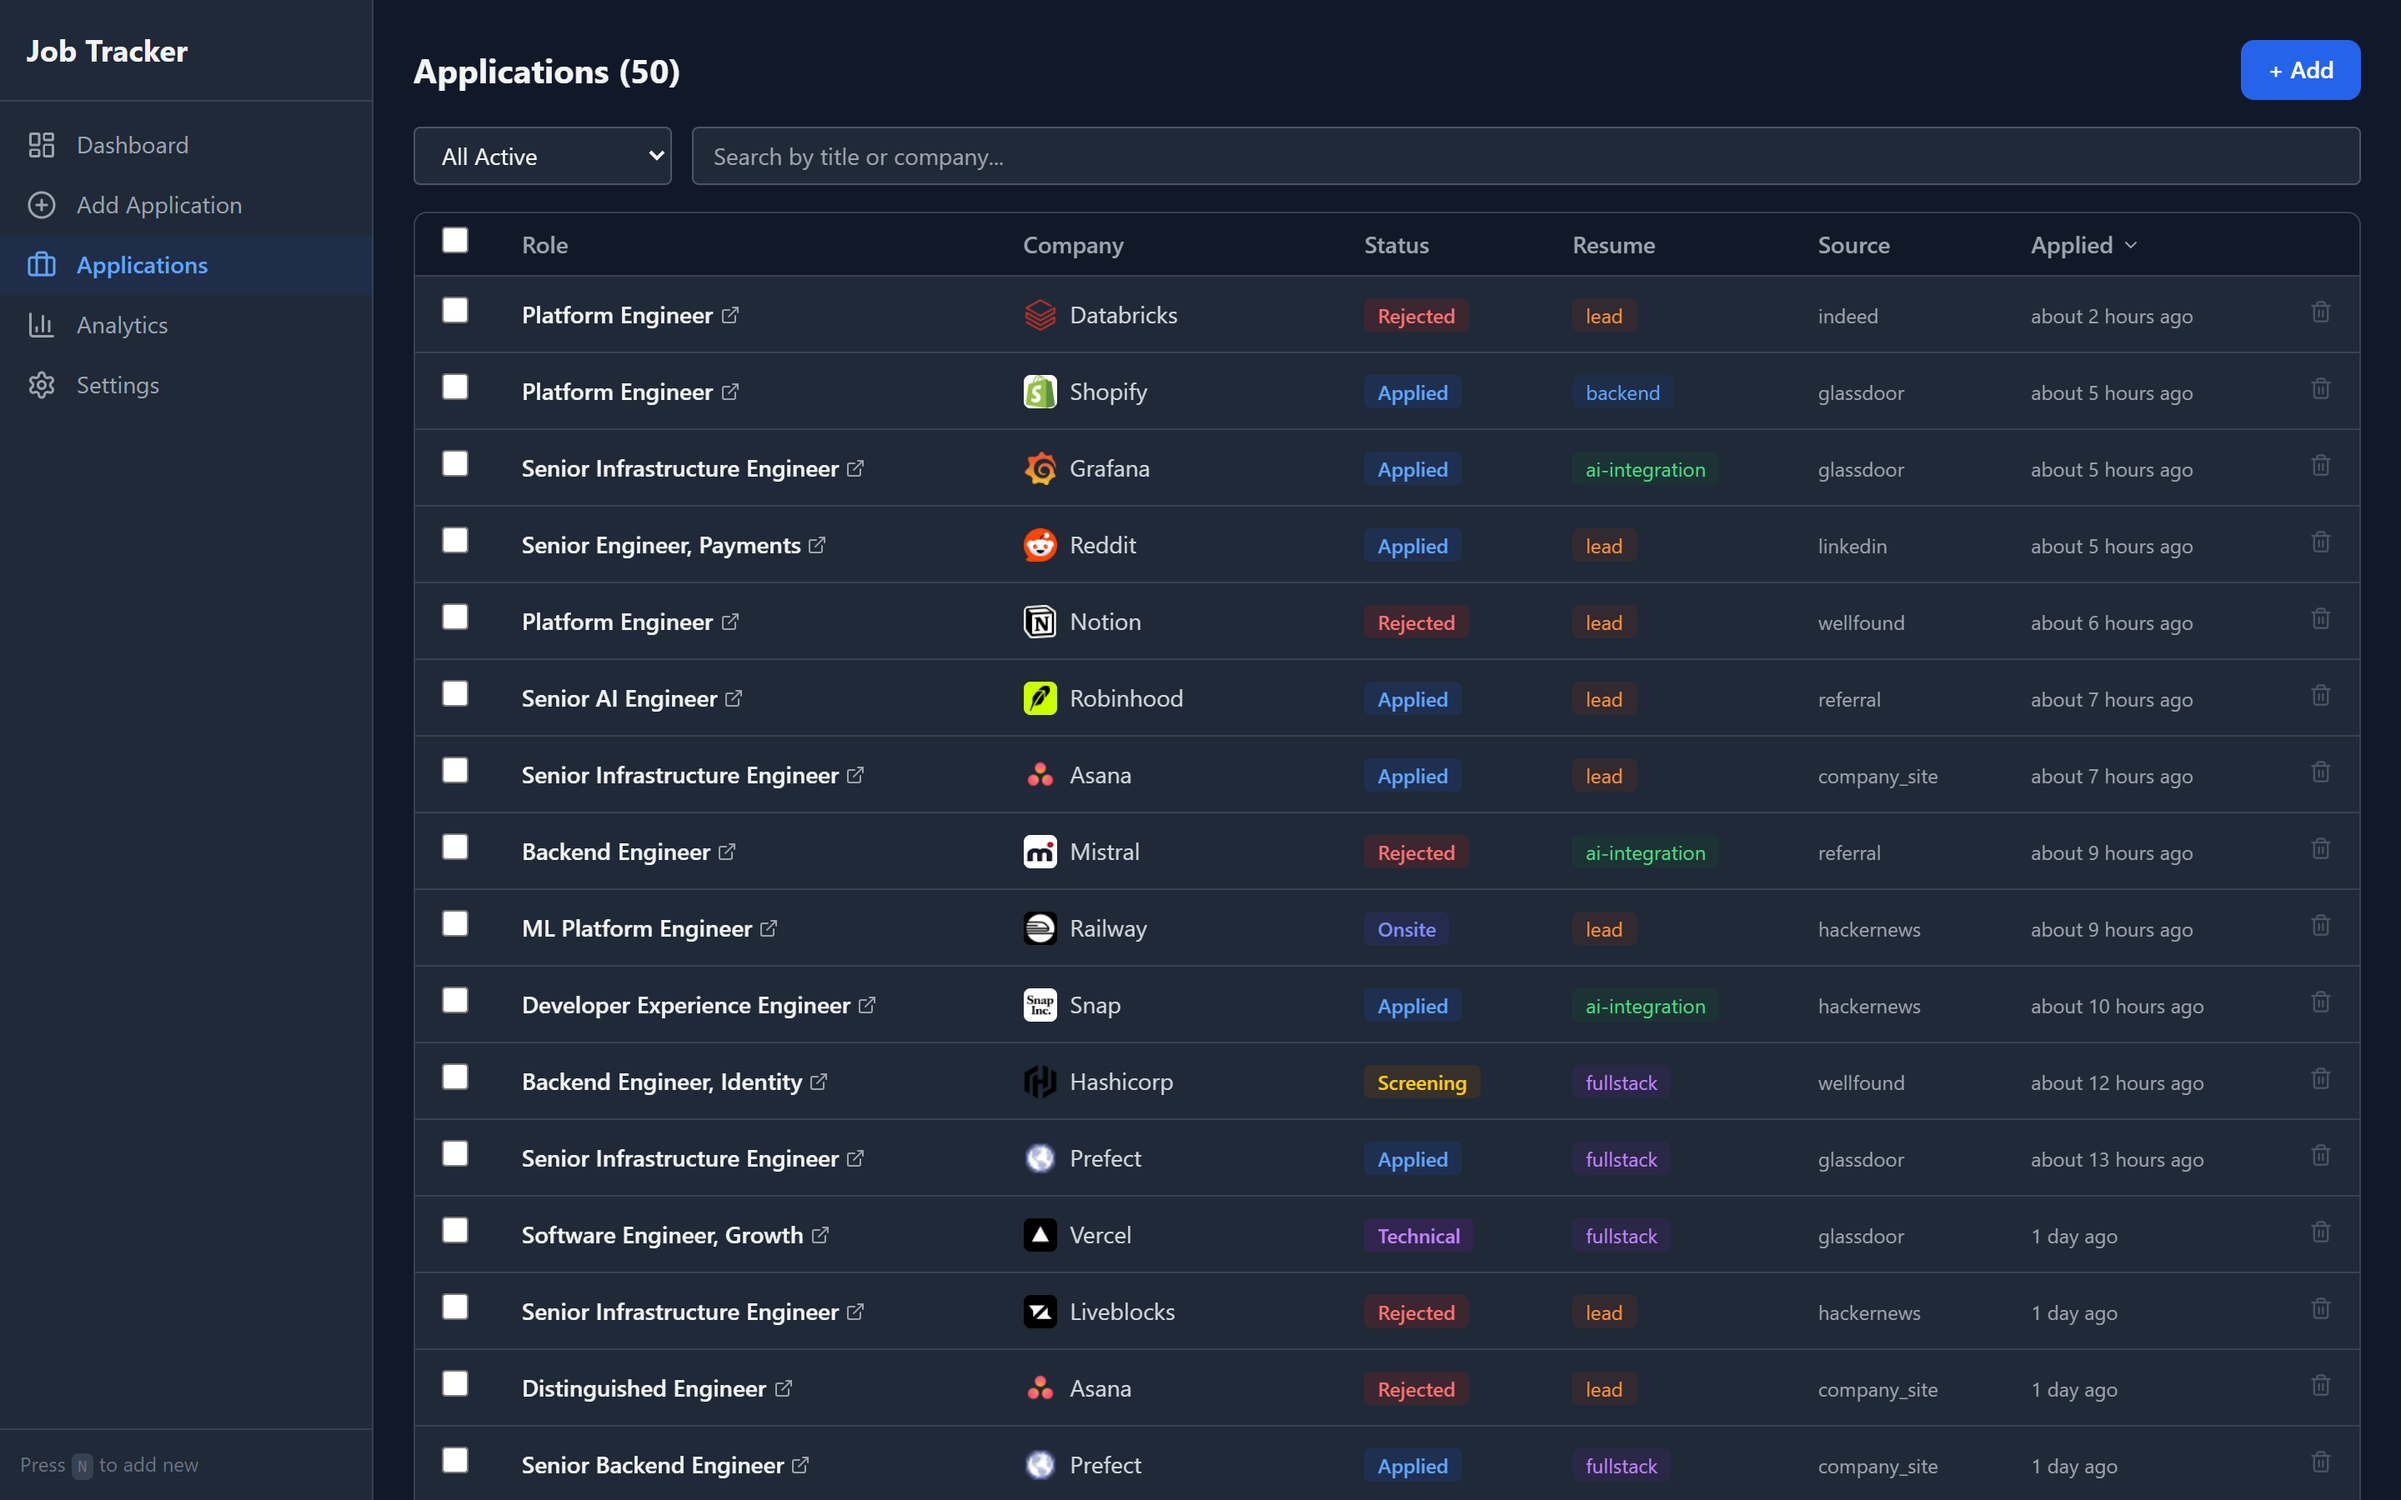
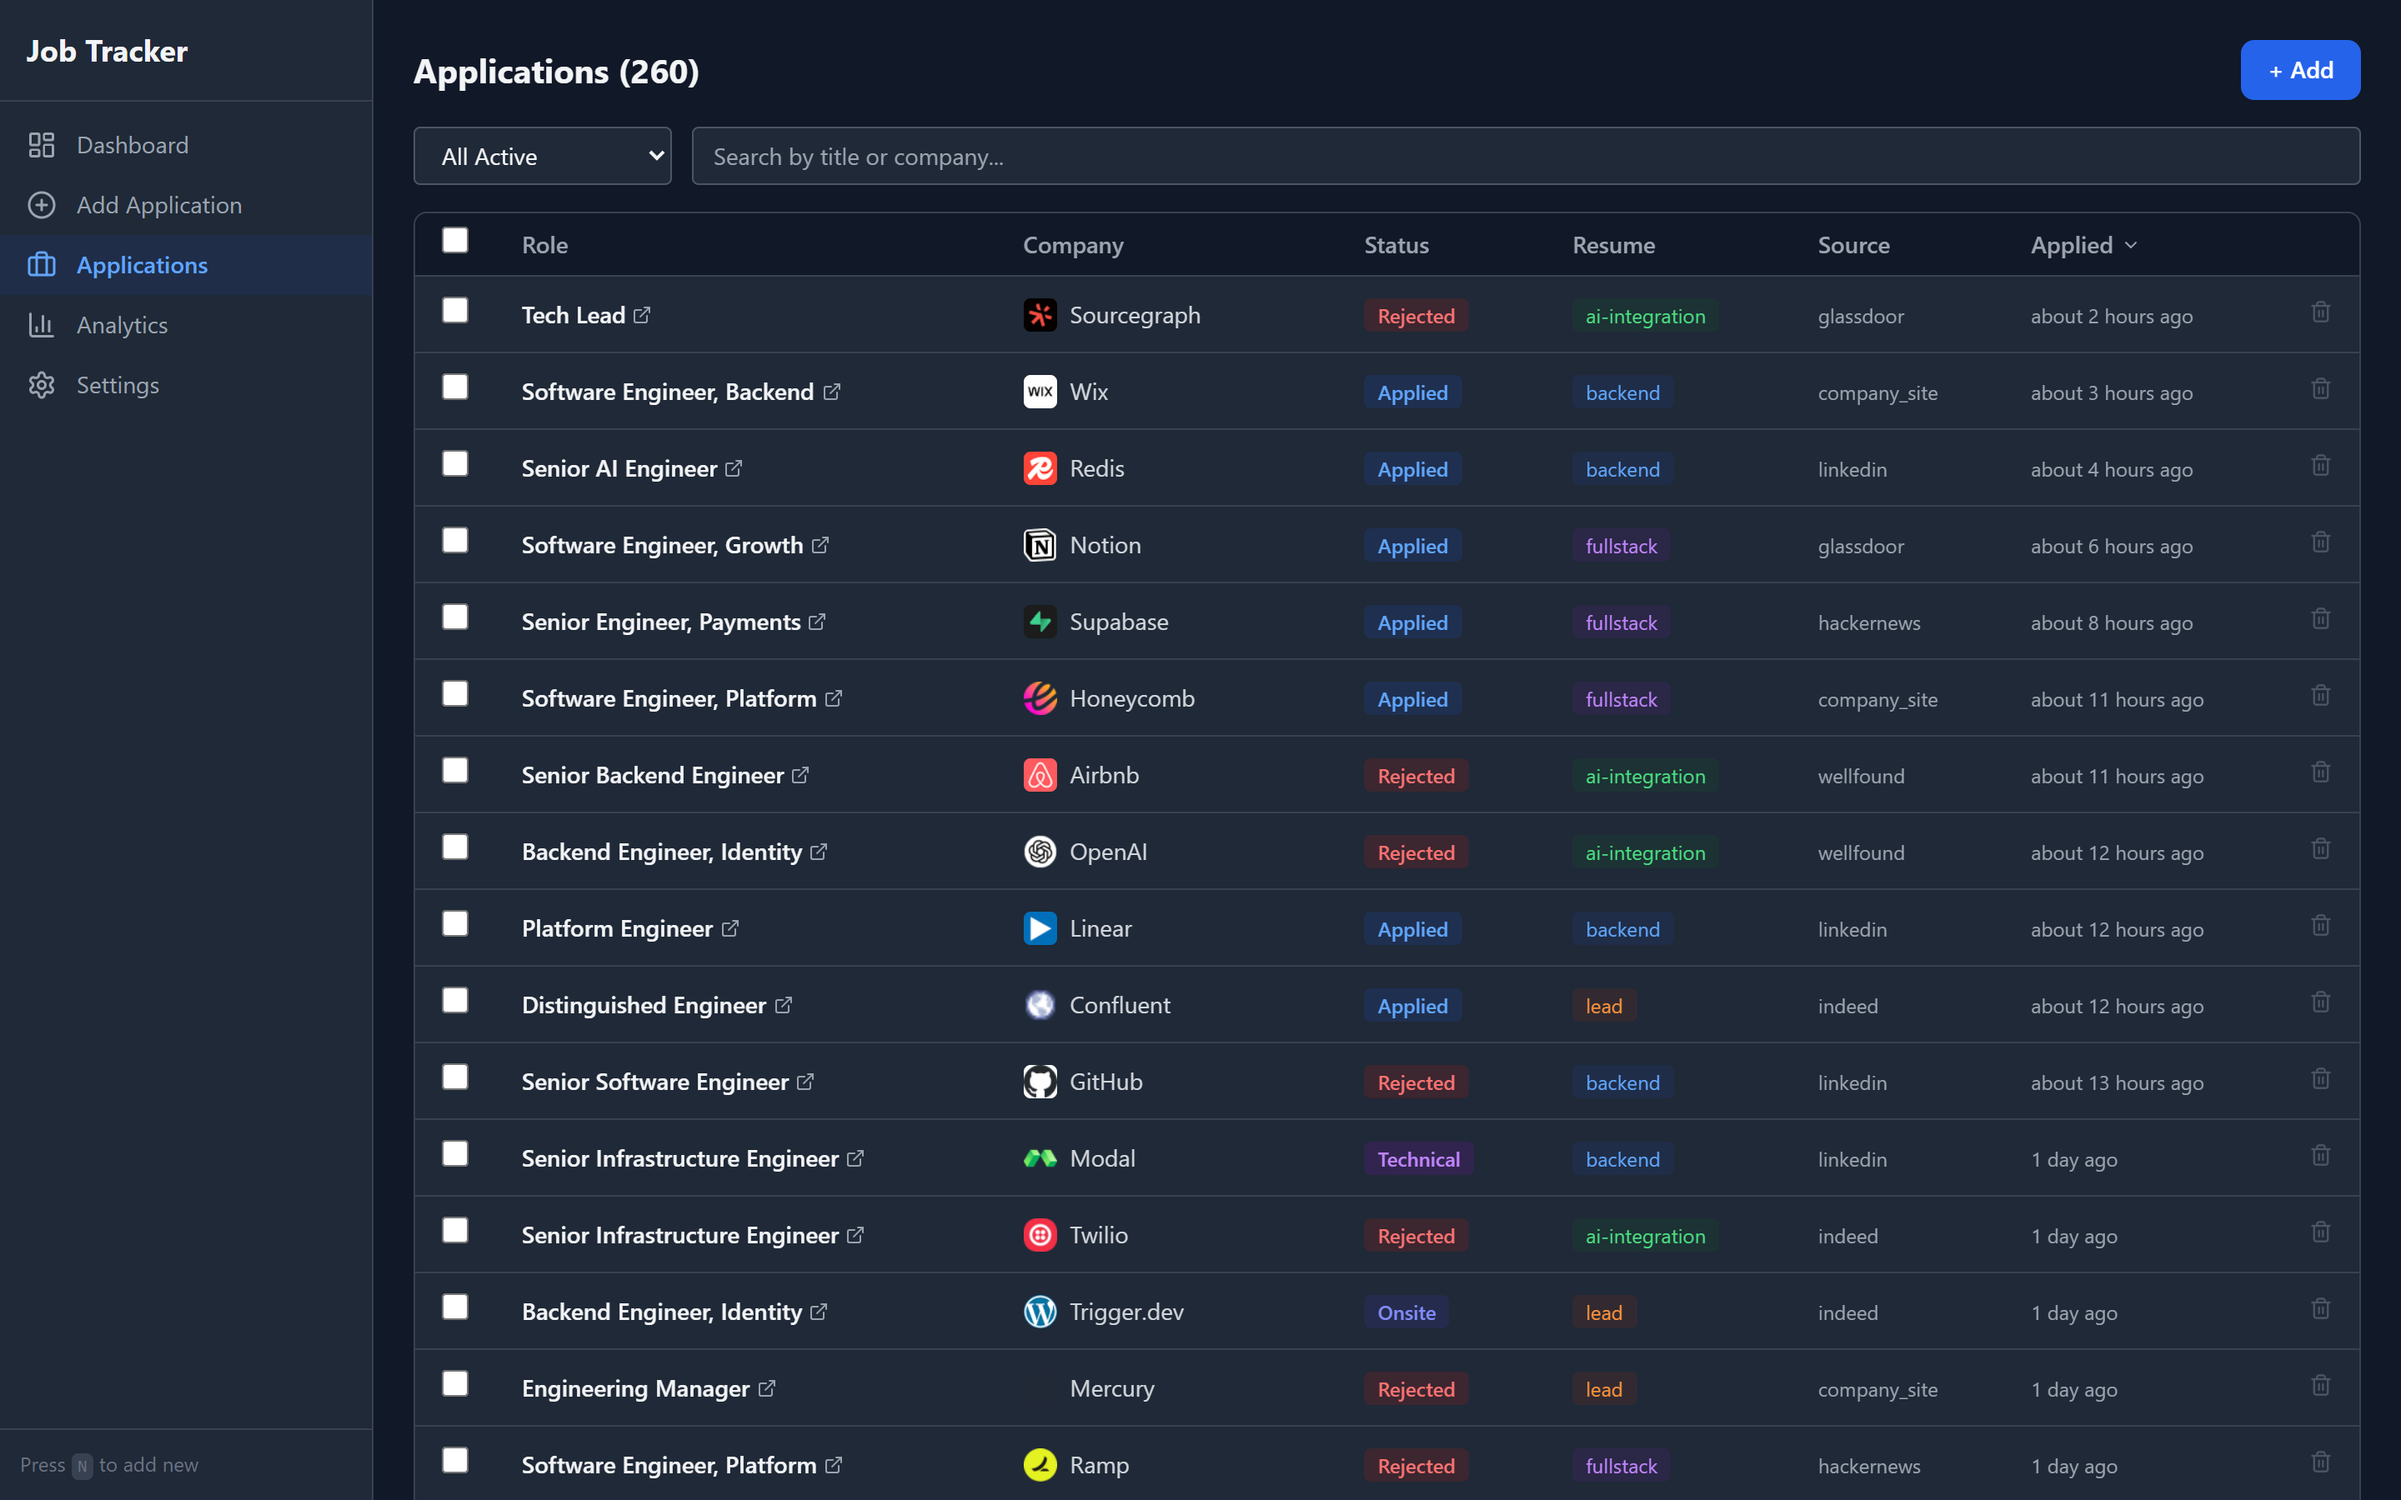
feat(applications): add pagination to Applications list
The Applications page hard-coded limit=50 and silently truncated the
list past 50 entries — the header showed Applications (50) regardless
of how many records actually existed. The backend already supported
offset/limit and returned meta.total, but the client never wired it up.

Threads page state through useQuery, sends offset, surfaces meta.total
in the header and a Showing X–Y of N / Page X of N control bar with
Prev/Next buttons. Filter changes reset to page 0.

diff --git a/app/packages/client/src/pages/Applications.tsx b/app/packages/client/src/pages/Applications.tsx
@@ -3,7 +3,7 @@ import { useQuery, useMutation, useQueryClient } from "@tanstack/react-query";
 import { useNavigate } from "react-router-dom";
 import { jobsApi } from "../api/jobs.api.ts";
 import { cn } from "../lib/utils.ts";
-import { ExternalLink, Trash2, ChevronUp, ChevronDown, Briefcase } from "lucide-react";
+import { ExternalLink, Trash2, ChevronUp, ChevronDown, ChevronLeft, ChevronRight, Briefcase } from "lucide-react";
 import { toast } from "sonner";
 import { relativeDate, shortDate } from "../lib/dates.ts";
 import { StatusBadge } from "../components/ui/StatusBadge.tsx";
@@ -14,6 +14,7 @@ import { SkeletonRow } from "../components/ui/Skeleton.tsx";
 import { JOB_STATUSES } from "@jobsearch/shared";
 
 const ALL_STATUSES = JOB_STATUSES;
+const PAGE_SIZE = 50;
 
 type SortKey = "title" | "employer" | "status" | "resumeUsed" | "foundVia" | "appliedAt";
 type SortDir = "asc" | "desc";
@@ -26,7 +27,13 @@ export function Applications() {
   const [sortDir, setSortDir] = useState<SortDir>("desc");
   const [selected, setSelected] = useState<Set<number>>(new Set());
   const [statusDropdownId, setStatusDropdownId] = useState<number | null>(null);
+  const [page, setPage] = useState(0);
   const dropdownRef = useRef<HTMLDivElement>(null);
+
+  // Reset to first page whenever filters change
+  useEffect(() => {
+    setPage(0);
+  }, [statusFilter, search]);
 
   const queryClient = useQueryClient();
 
@@ -97,7 +104,12 @@ export function Applications() {
     if (confirm(`Delete "${title}"?`)) deleteMutation.mutate(id);
   };
 
-  const params: Record<string, string> = { limit: "50", sortBy: "createdAt", sortDir: "desc" };
+  const params: Record<string, string> = {
+    limit: String(PAGE_SIZE),
+    offset: String(page * PAGE_SIZE),
+    sortBy: "createdAt",
+    sortDir: "desc",
+  };
   if (statusFilter && statusFilter !== "all") {
     params.status = statusFilter;
   } else if (!statusFilter) {
@@ -105,10 +117,13 @@ export function Applications() {
   }
   if (search) params.search = search;
 
-  const { data: jobs = [], isLoading } = useQuery({
-    queryKey: ["jobs", "list", statusFilter, search],
+  const { data: result, isLoading } = useQuery({
+    queryKey: ["jobs", "list", statusFilter, search, page],
     queryFn: () => jobsApi.list(params),
   });
+  const jobs = result?.data ?? [];
+  const total = result?.total ?? 0;
+  const totalPages = Math.max(1, Math.ceil(total / PAGE_SIZE));
 
   // Client-side sort
   const sortedJobs = [...jobs].sort((a: any, b: any) => {
@@ -170,7 +185,7 @@ export function Applications() {
   return (
     <div>
       <div className="flex items-center justify-between mb-4">
-        <h2 className="text-xl font-bold">Applications ({jobs.length})</h2>
+        <h2 className="text-xl font-bold">Applications ({total})</h2>
         <button
           onClick={() => navigate("/add")}
           className="px-4 py-2 bg-blue-600 text-white rounded-lg text-sm font-medium hover:bg-blue-700"
@@ -324,6 +339,36 @@ export function Applications() {
               </tbody>
             </table>
           </div>
+
+          {/* Pagination controls */}
+          {totalPages > 1 && (
+            <div className="flex items-center justify-between mt-3 text-sm text-gray-600 dark:text-gray-400">
+              <div>
+                Showing {page * PAGE_SIZE + 1}–{Math.min((page + 1) * PAGE_SIZE, total)} of {total}
+              </div>
+              <div className="flex items-center gap-2">
+                <button
+                  onClick={() => setPage((p) => Math.max(0, p - 1))}
+                  disabled={page === 0}
+                  className="p-1.5 rounded border border-gray-300 dark:border-gray-600 hover:bg-gray-100 dark:hover:bg-gray-700 disabled:opacity-40 disabled:cursor-not-allowed"
+                  aria-label="Previous page"
+                >
+                  <ChevronLeft size={14} />
+                </button>
+                <span>
+                  Page {page + 1} of {totalPages}
+                </span>
+                <button
+                  onClick={() => setPage((p) => Math.min(totalPages - 1, p + 1))}
+                  disabled={page >= totalPages - 1}
+                  className="p-1.5 rounded border border-gray-300 dark:border-gray-600 hover:bg-gray-100 dark:hover:bg-gray-700 disabled:opacity-40 disabled:cursor-not-allowed"
+                  aria-label="Next page"
+                >
+                  <ChevronRight size={14} />
+                </button>
+              </div>
+            </div>
+          )}
 
           {/* Floating bulk action bar */}
           {selected.size > 0 && (

diff --git a/app/packages/client/src/api/jobs.api.ts b/app/packages/client/src/api/jobs.api.ts
@@ -1,9 +1,12 @@
 import { apiFetch, apiPost, apiPatch } from "./client.ts";
 
 export const jobsApi = {
-  list: (params?: Record<string, string>) => {
+  list: async (params?: Record<string, string>): Promise<{ data: any[]; total: number }> => {
     const qs = params ? "?" + new URLSearchParams(params).toString() : "";
-    return apiFetch<any[]>(`/jobs${qs}`);
+    const res = await fetch(`/api/jobs${qs}`, { headers: { "Content-Type": "application/json" } });
+    const json = await res.json();
+    if (!json.ok) throw new Error(json.error?.message || "API error");
+    return { data: json.data, total: json.meta?.total ?? json.data.length };
   },
   getById: (id: number) => apiFetch<any>(`/jobs/${id}`),
   create: (data: any) => apiPost<any>("/jobs", data),
